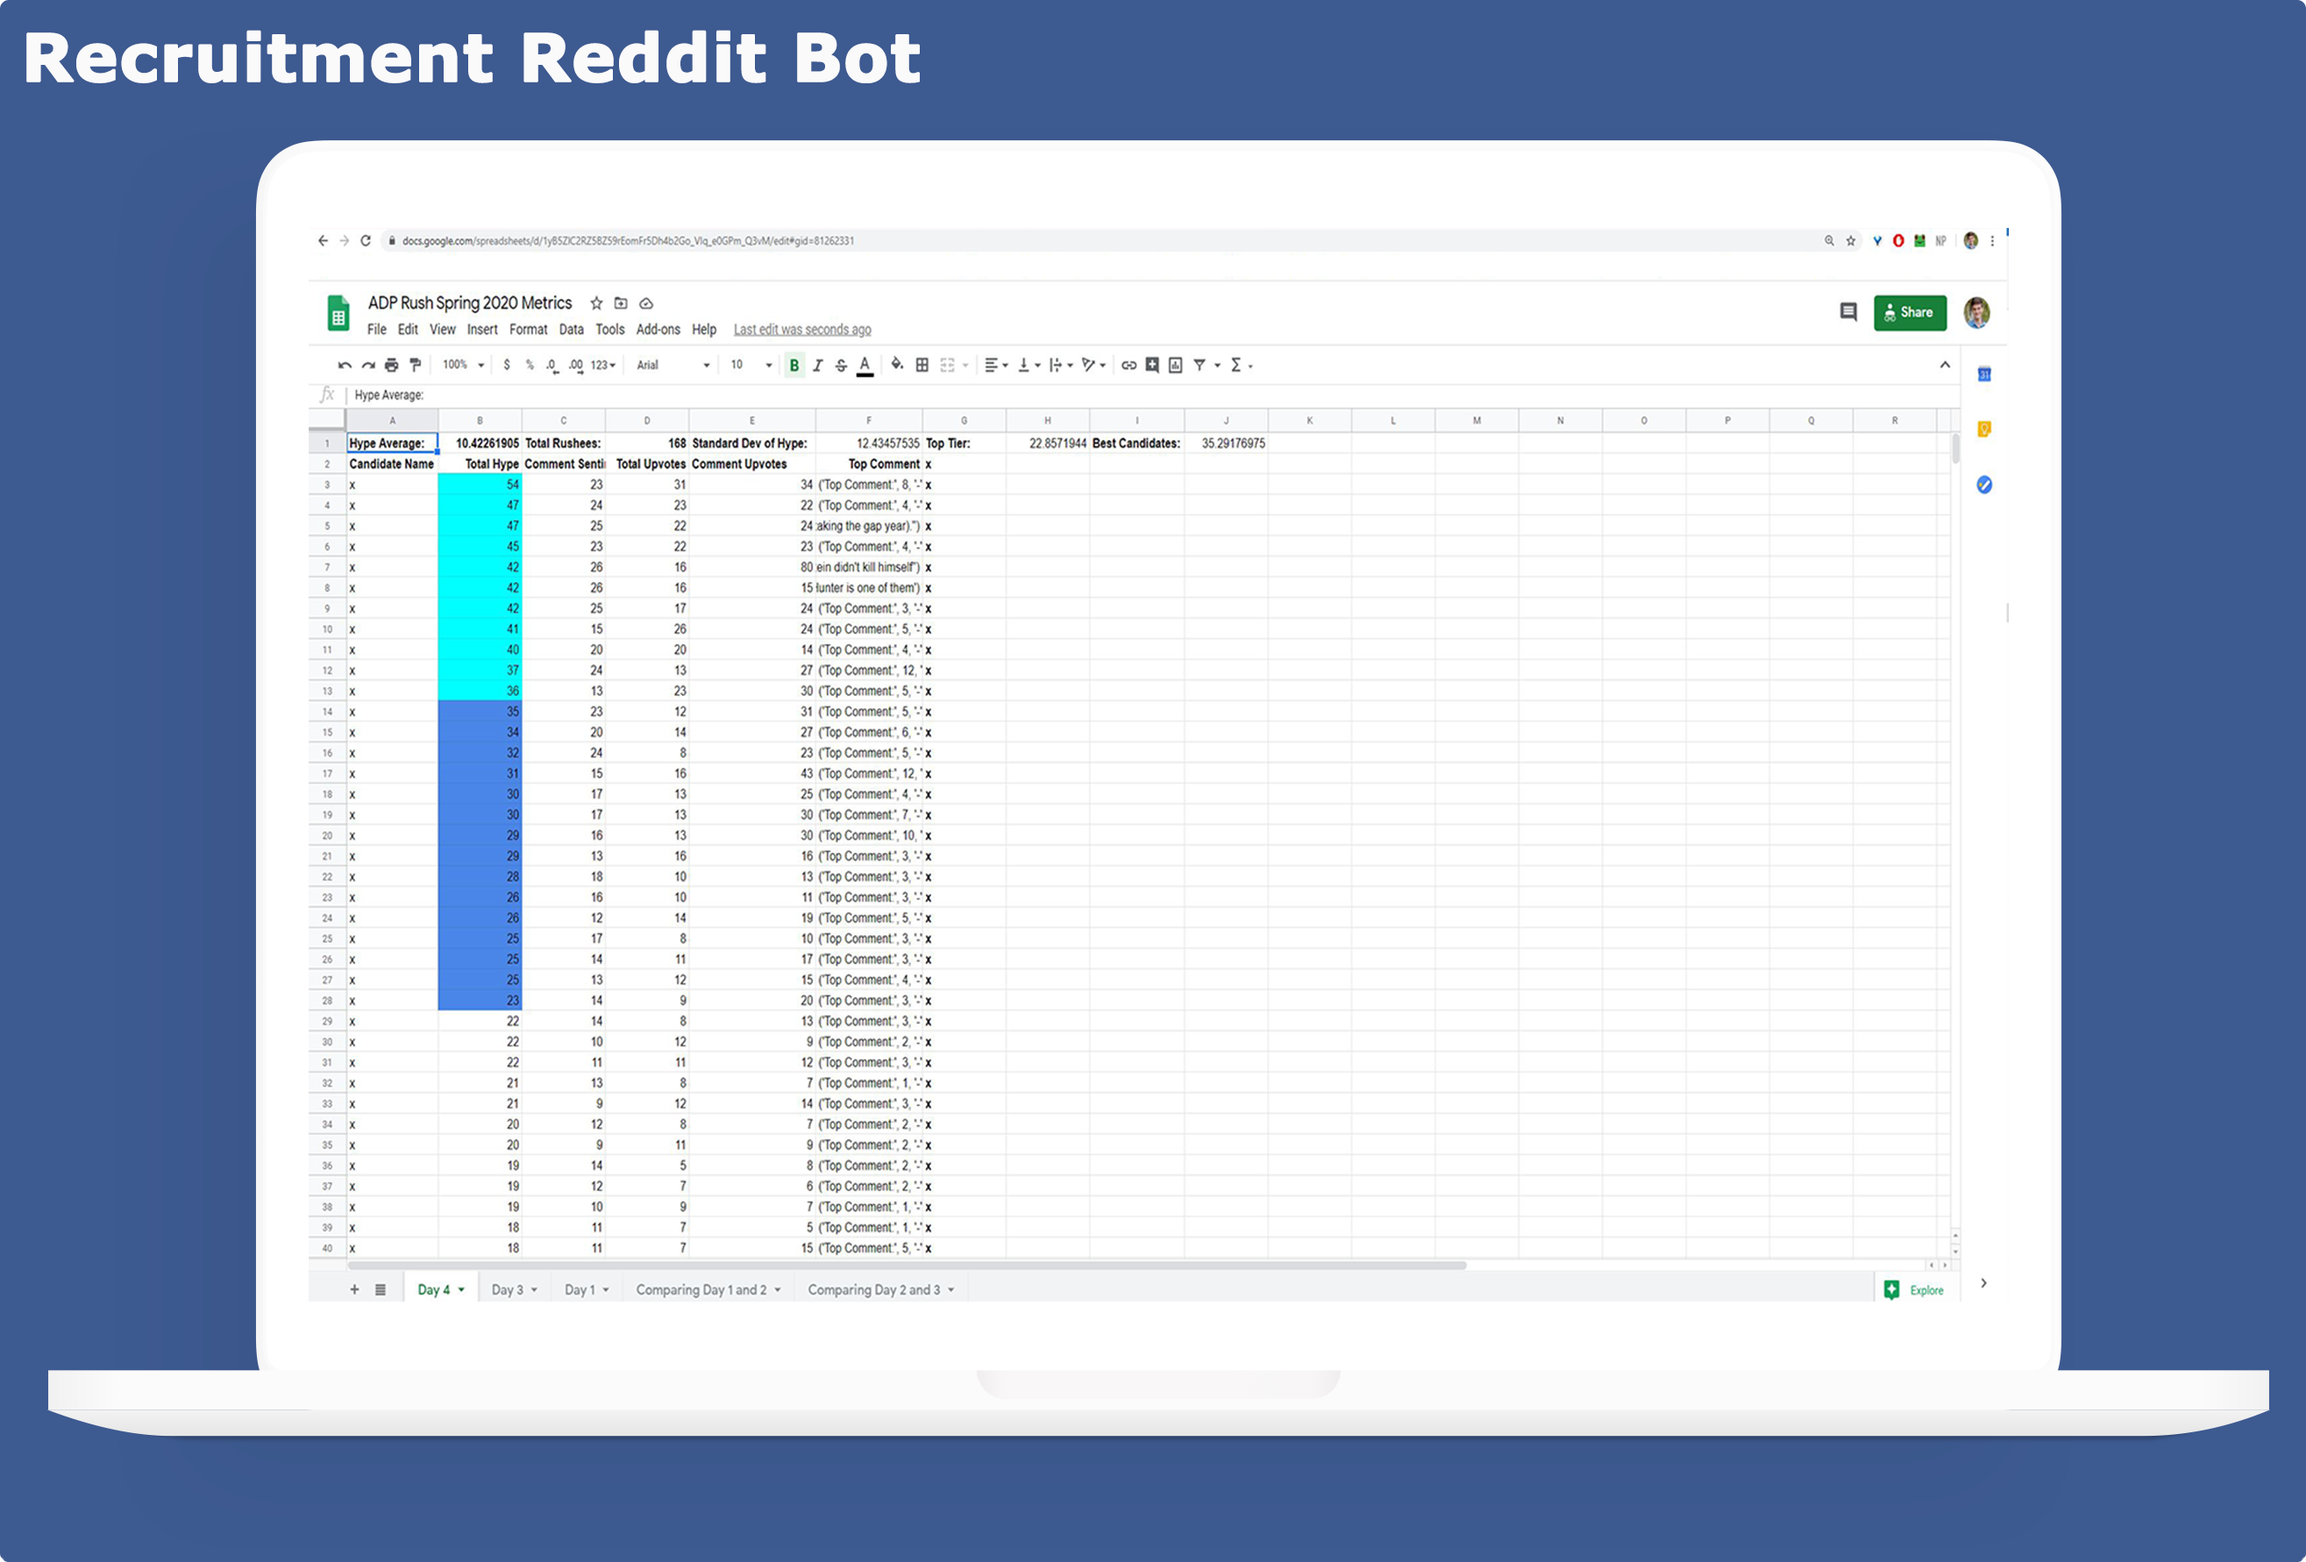
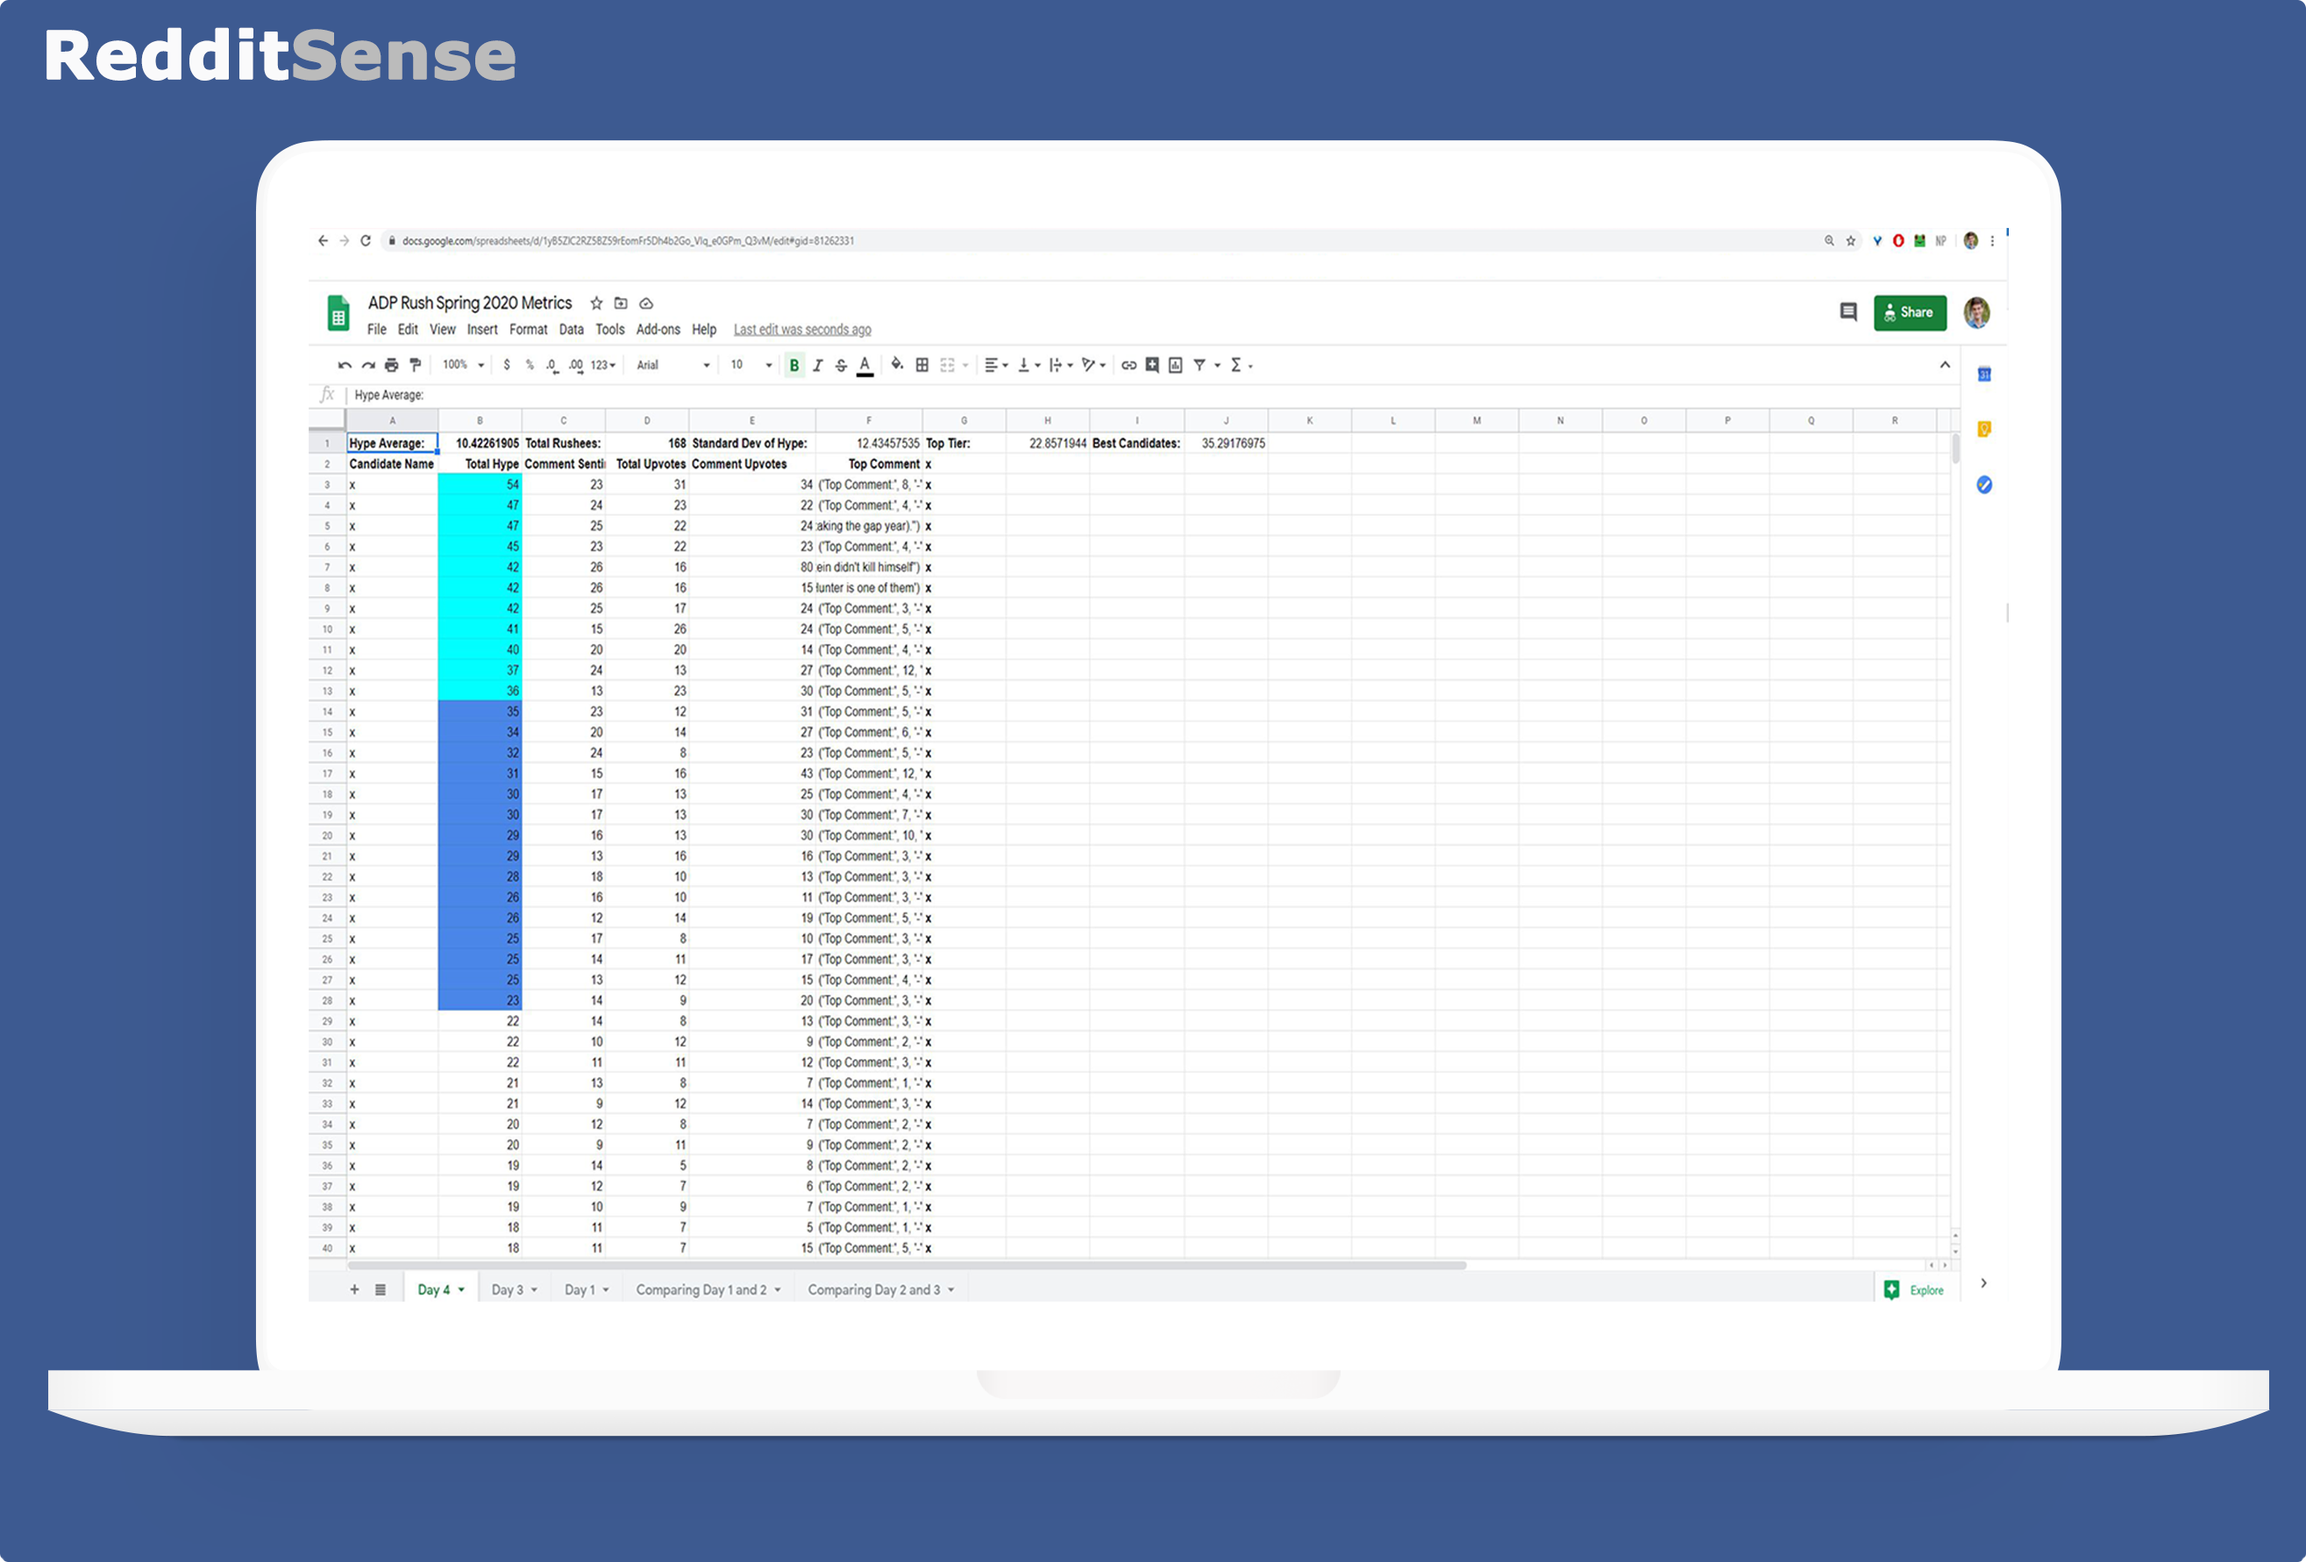
reddit tool rename

Changed region(s): [[0.0, 0.0, 0.4053, 0.0617]]

diff --git a/projects.html b/projects.html
@@ -298,7 +298,7 @@
           <img class="hvr-bob project-photo" src="./images/reddit.png" alt="Reddit Scraping Bot" />
         </a>
         <h2 class="title" style="margin-bottom: 1rem;">
-          Recruitment Reddit Bot
+          RedditSense
         </h2>
         <div class="subtitle-container" style="margin-bottom: 1rem;">
           <nav class="breadcrumb is-centered is-medium is-reddit" aria-label="breadcrumbs">
